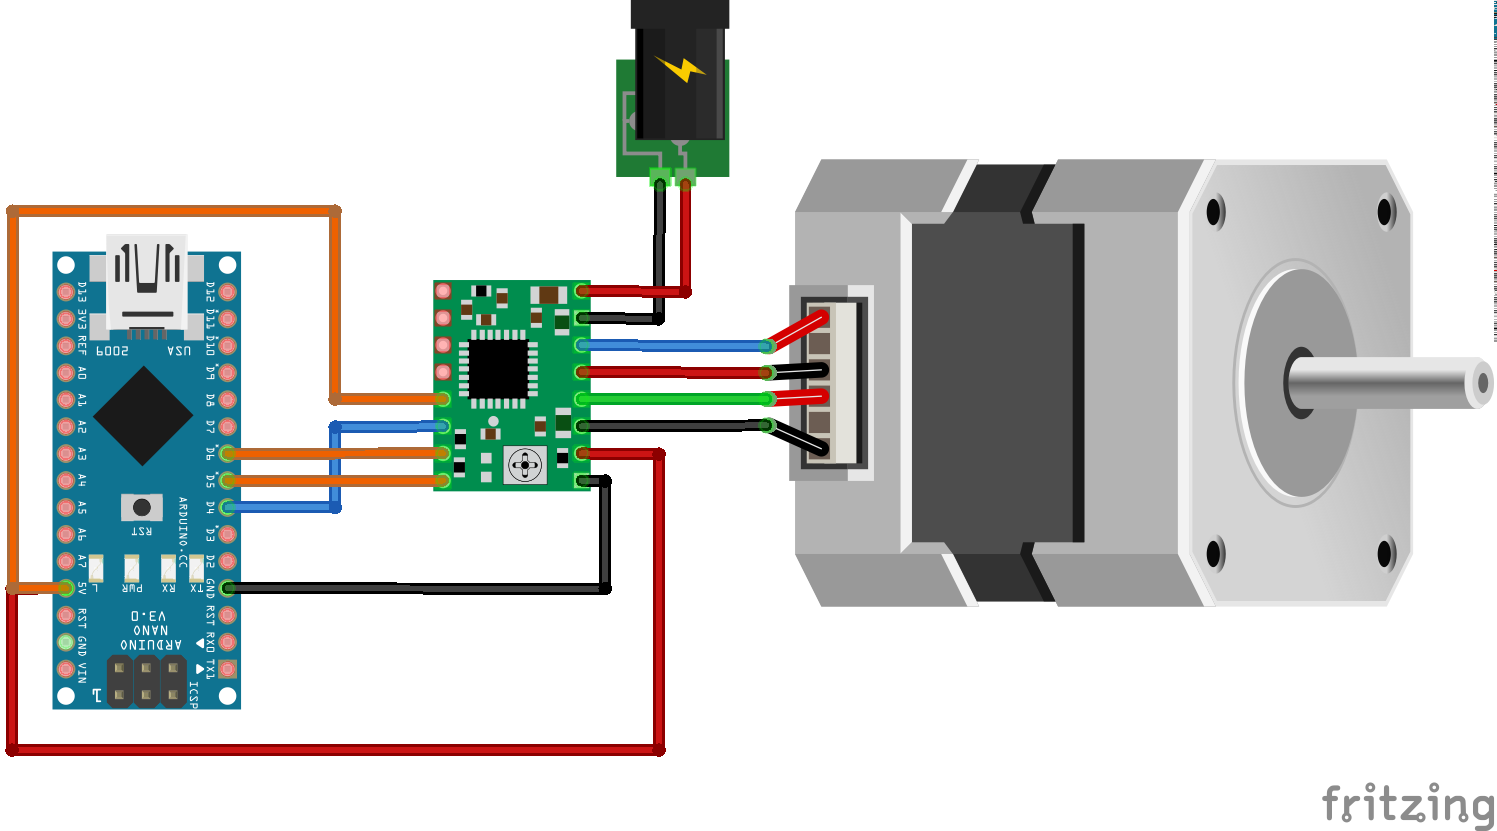
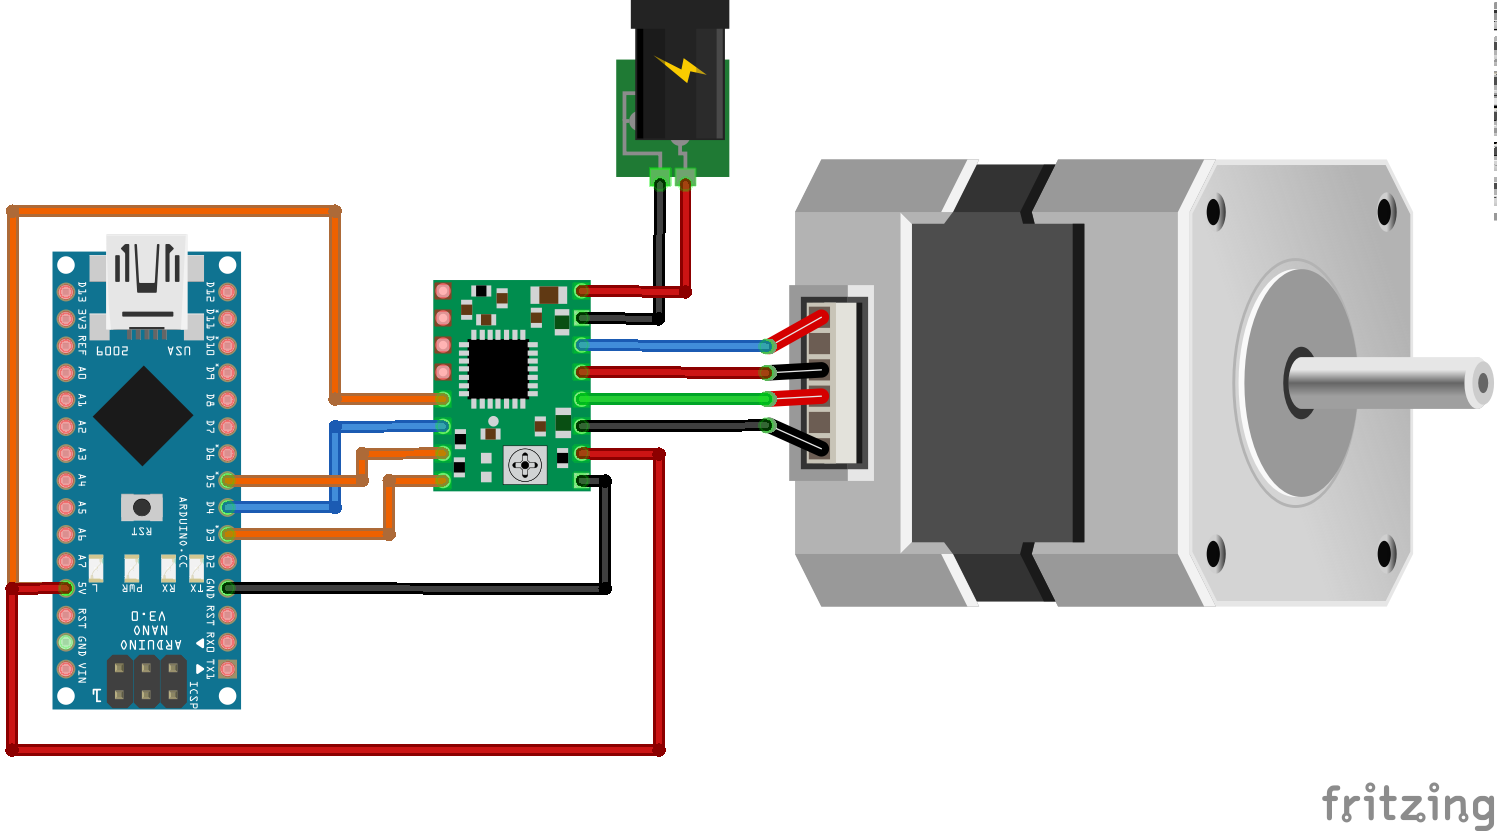
Fixes #17

diff --git a/src/arduino-motorfocus.cpp b/src/arduino-motorfocus.cpp
@@ -11,7 +11,7 @@
 #define BTN_OUT 8
 #define BTN_STEP 32
 
-#define PIN_DRIVER_ENABLE 4
+#define PIN_DRIVER_SLEEP 4
 #define PIN_DRIVER_DIR 3
 #define PIN_DRIVER_STEP 5
 
@@ -79,7 +79,7 @@ void setup()
   stepper.setMaxSpeed(speedFactor * speedMult);
   stepper.setAcceleration(100);
 #ifdef USE_DRIVER
-  stepper.setEnablePin(PIN_DRIVER_ENABLE);
+  stepper.setEnablePin(PIN_DRIVER_SLEEP);
 #endif
   millisLastMove = millis();
 

diff --git a/README.md b/README.md
@@ -12,7 +12,9 @@ Motor focuser for Starlight Feather Touch 2" by Cover1987: <https://www.thingive
 1. Download and install [PlatformIO](https://platformio.org/install/ide?install=vscode)
 2. Clone or download this project and unzip it
 3. Open project with PlatformIO
-4. Select config (**Default**|**A4988driver**) in bottom bar and upload to Arduino Nano (PlatformIO will download needed libraries automatically) ![VSCode settings](res/screenshot_vscode.png)
+4. Select the right config for your microcontroller e.g. `nanoatmega328` for Arduino Nano with 28BYJ-48 stepper, `promicro16` for Sparkfun Pro Mirco with 28BYJ-48 stepper or `nanoatmega328_A988driver` for Arduino Nano with A4988driver support in the bottom bar and upload to your Arduino (PlatformIO will download needed libraries automatically)
+
+![VSCode settings](res/screenshot_vscode.png)
 
 ## Wiring
 
